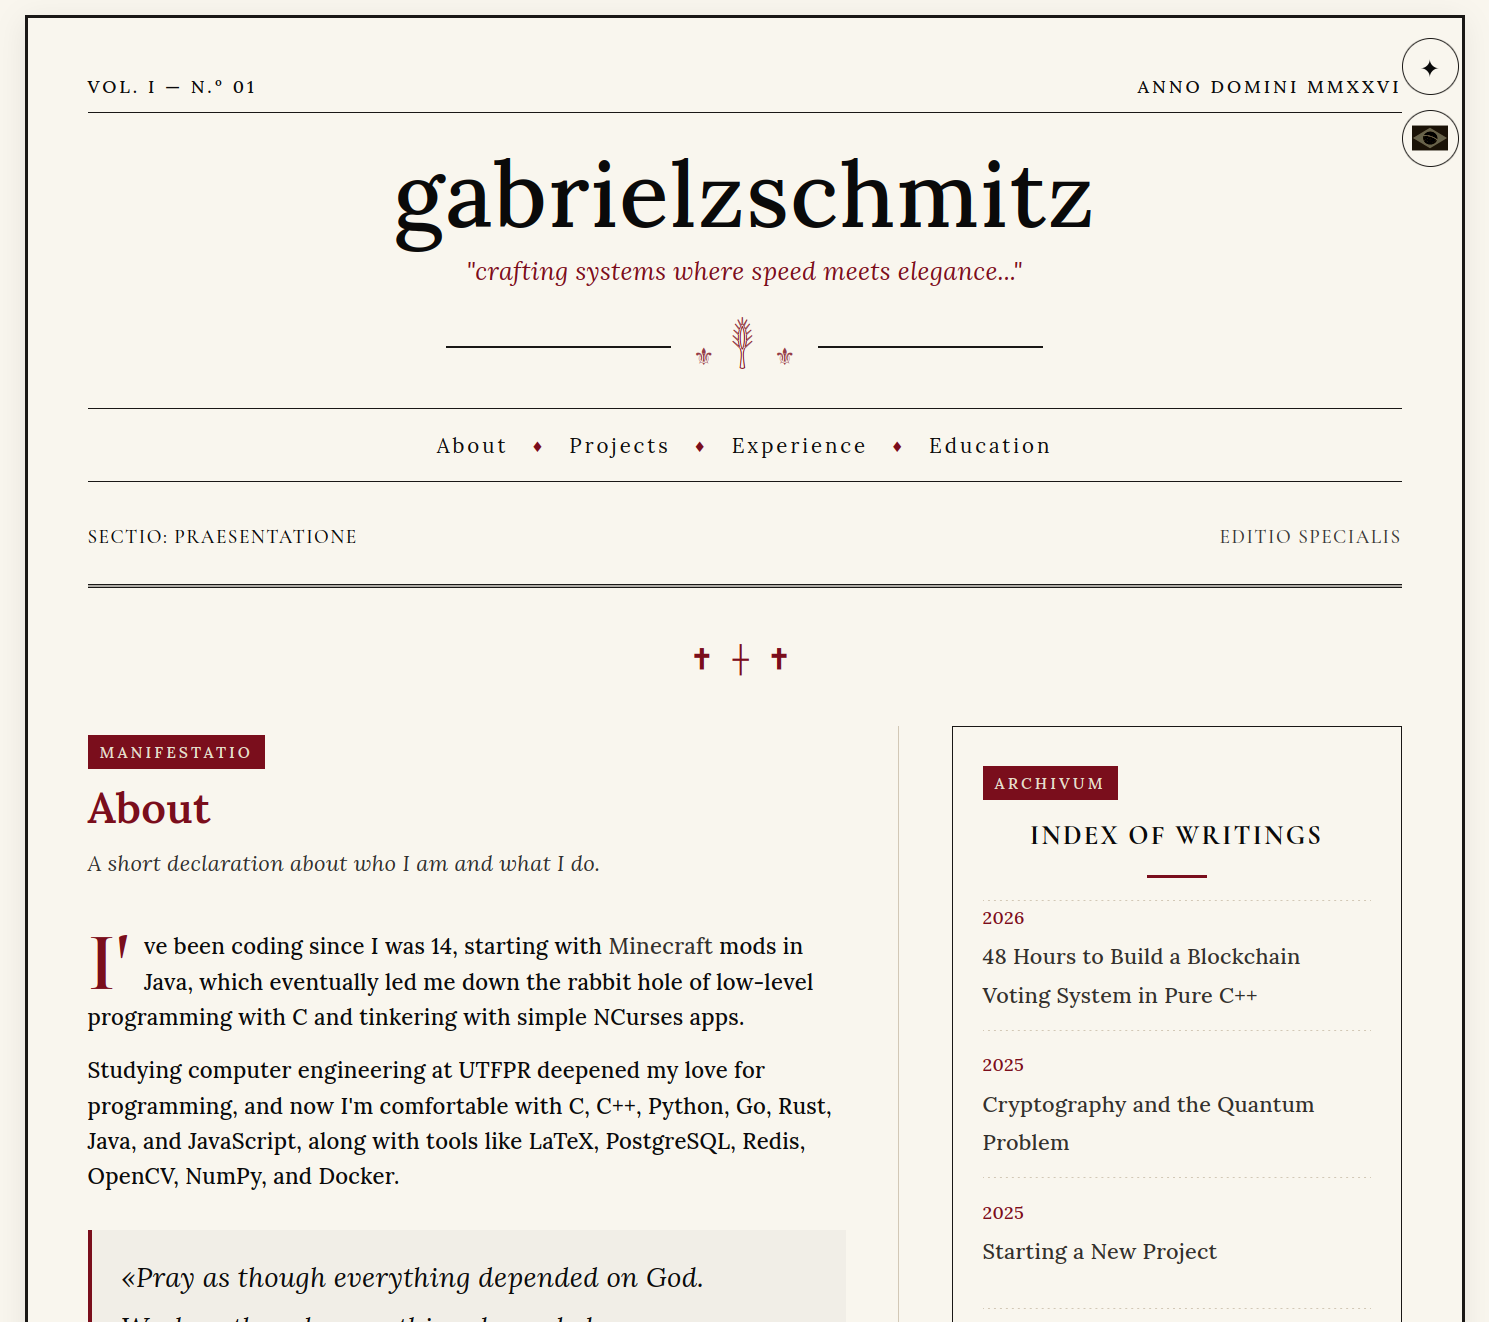
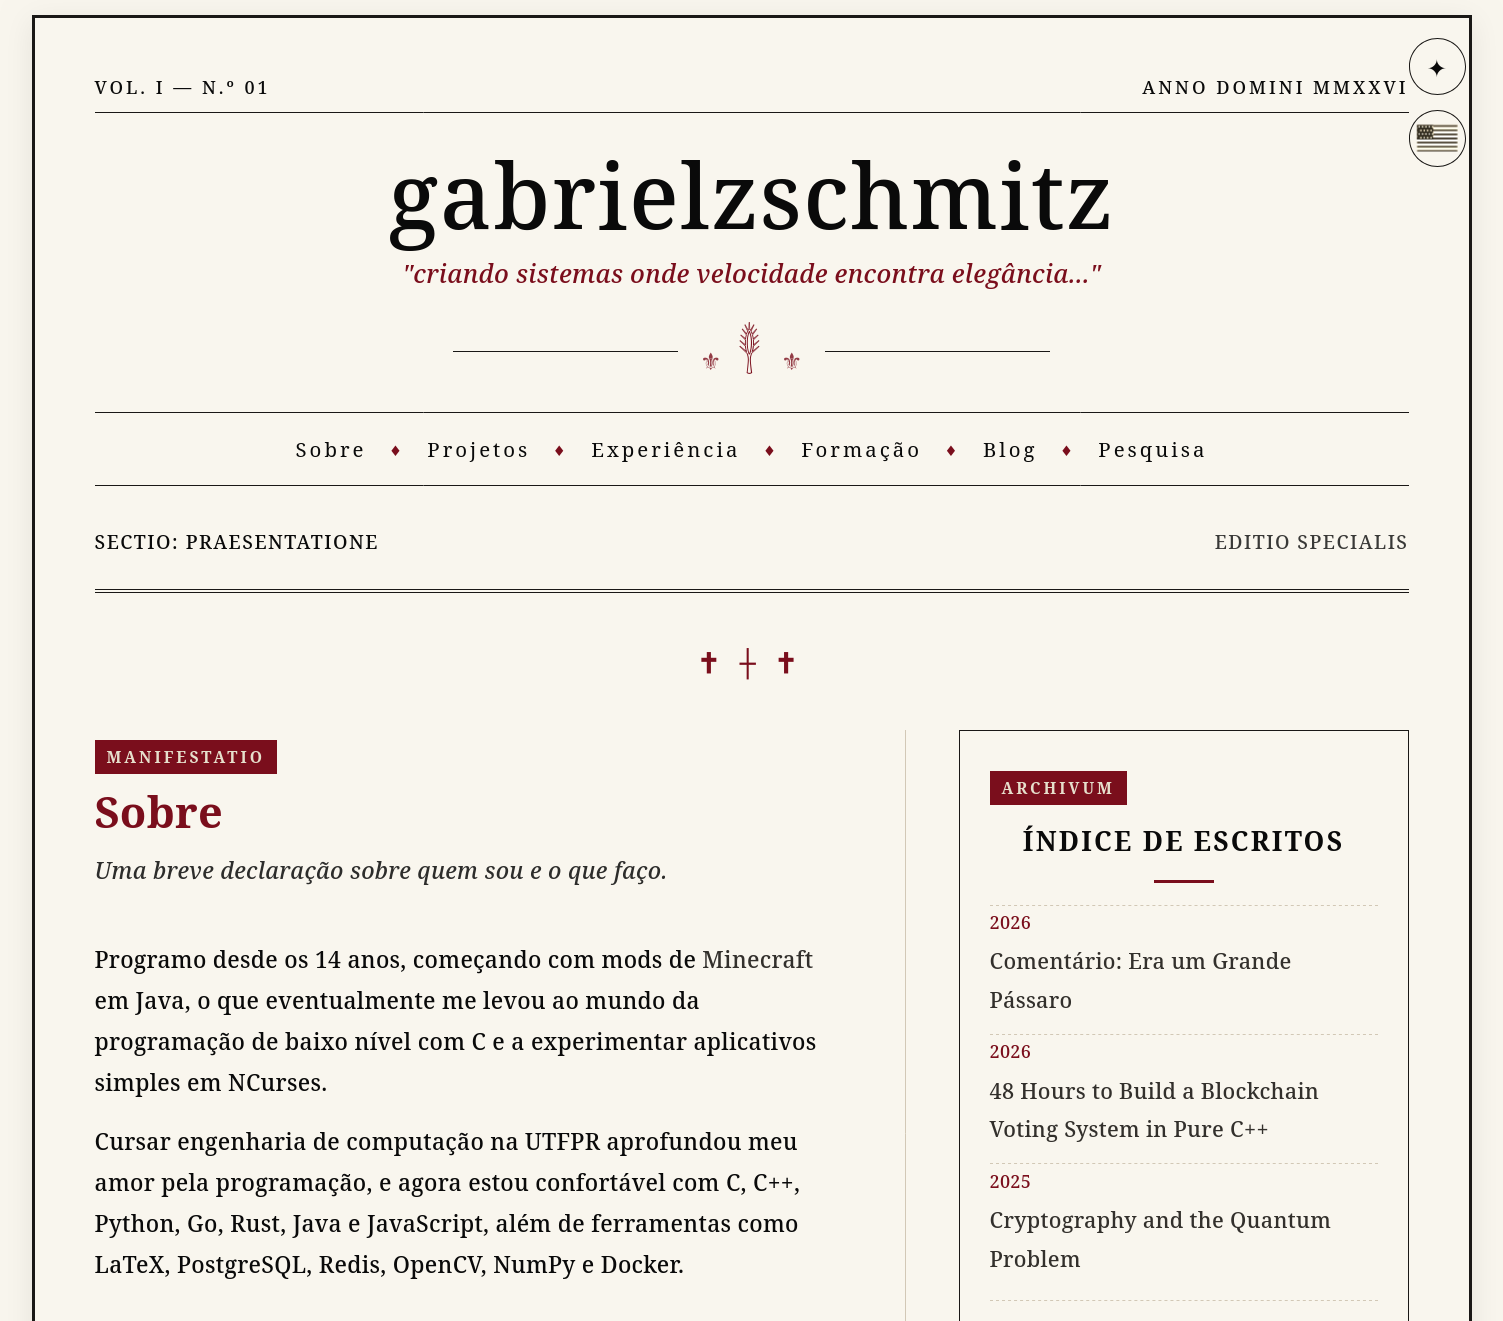
docs(readme): document research page and update project demo screenshots
- Update README overview to include the `/research` page rendered with
  BibInject.
- Add a dedicated section and screenshot demo for the Research Page.
- Update repository demo images (`website-demo.png`, `blog-demo.png`,
  and `research-demo.png`).

diff --git a/README.md b/README.md
@@ -9,8 +9,9 @@
 This repository contains the full source code for my personal website. It is
 built as a single [Zola](https://www.getzola.org/) site with
 [BibInject](https://github.com/gabrielzschmitz/BibInject) for bibliography
-injection, serving both the handcrafted _portfolio main page_ at `/` and the
-_blog_ at `/blog`, where all long-form writing posts live.
+injection, serving both the handcrafted _portfolio main page_ at `/`, the
+_blog_ at `/blog`, where all long-form writing posts live, and the _research
+page_ at `/research`, where publications are rendered using BibInject.
 
 ## Overview
 
@@ -18,14 +19,20 @@ _blog_ at `/blog`, where all long-form writing posts live.
 ### Main Page (`/`)
 
 <p align="center">
-    <img align="center" width="640px" src="./static/assets/images/website-demo.png" alt="Website Demonstration">
+  <img align="center" width="640px" src="./static/assets/images/website-demo.png" alt="Website Demonstration">
 </p>
 
 
 ### Blog (`/blog`)
 
 <p align="center">
-    <img align="center" width="640px" src="./static/assets/images/blog-demo.png" alt="Blog Demonstration">
+  <img align="center" width="640px" src="./static/assets/images/blog-demo.png" alt="Blog Demonstration">
+</p>
+
+### Research Page (`/research`)
+
+<p align="center">
+  <img align="center" width="640px" src="./static/assets/images/research-demo.png" alt="Research Page Demonstration">
 </p>
 
 ## Build
